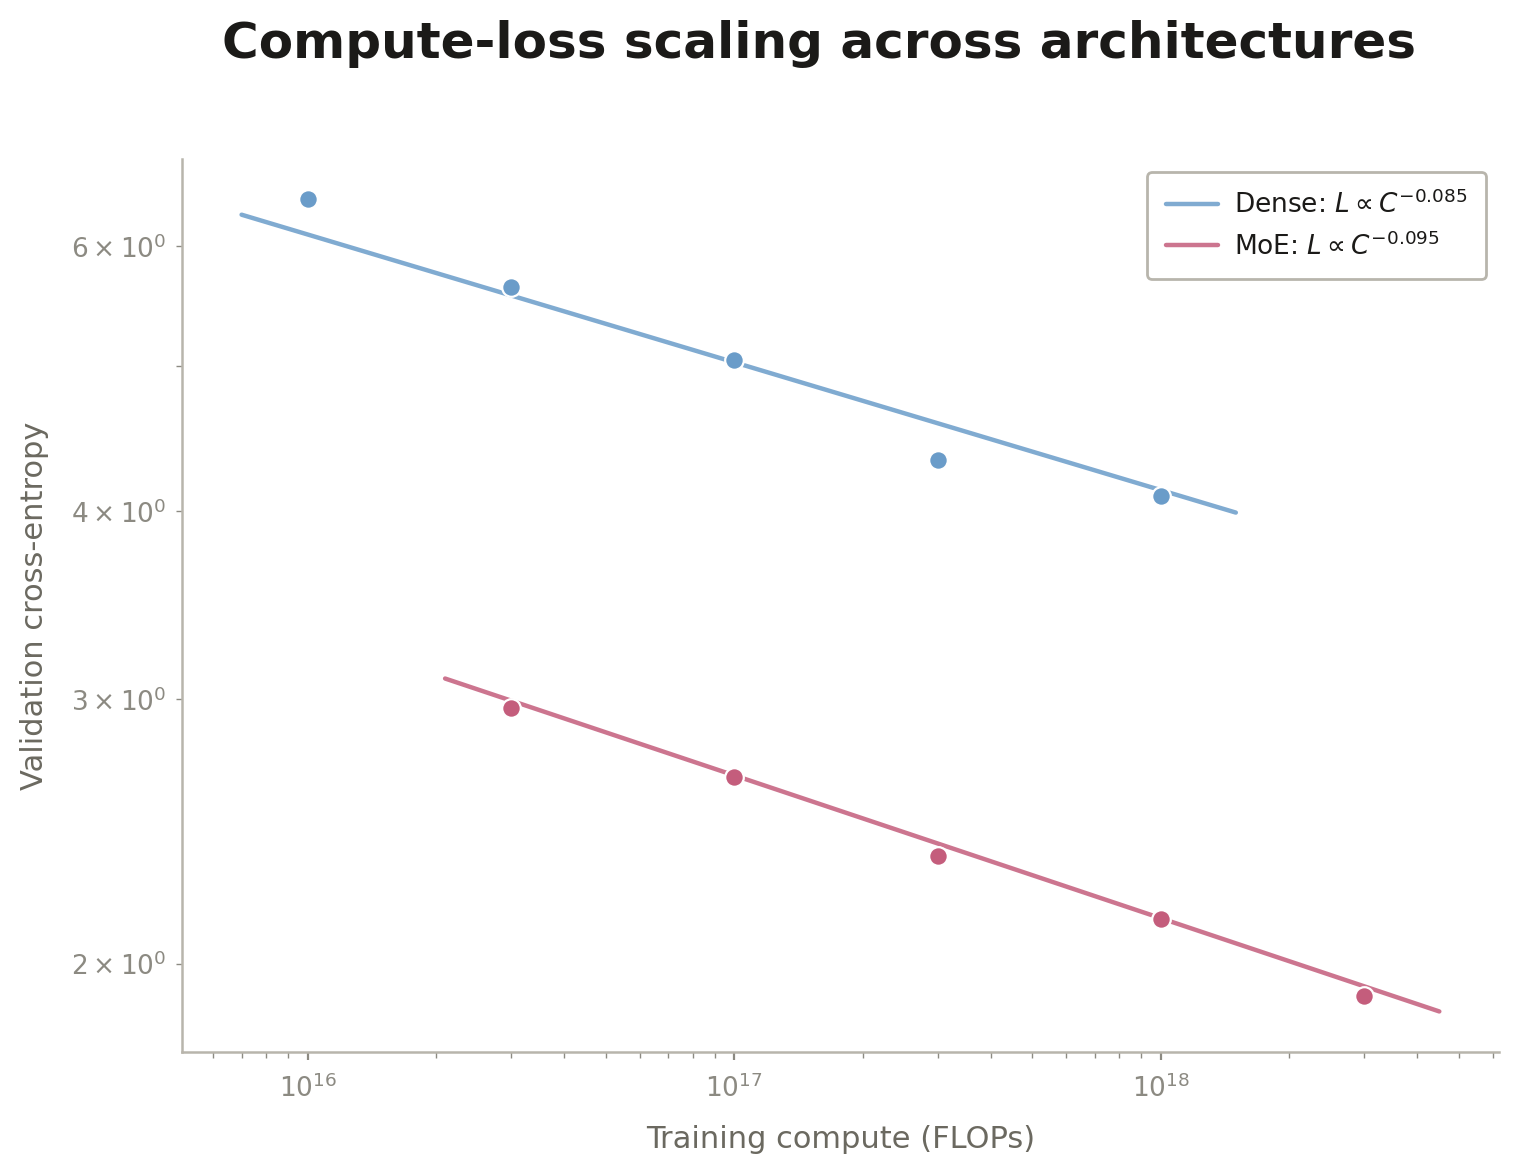
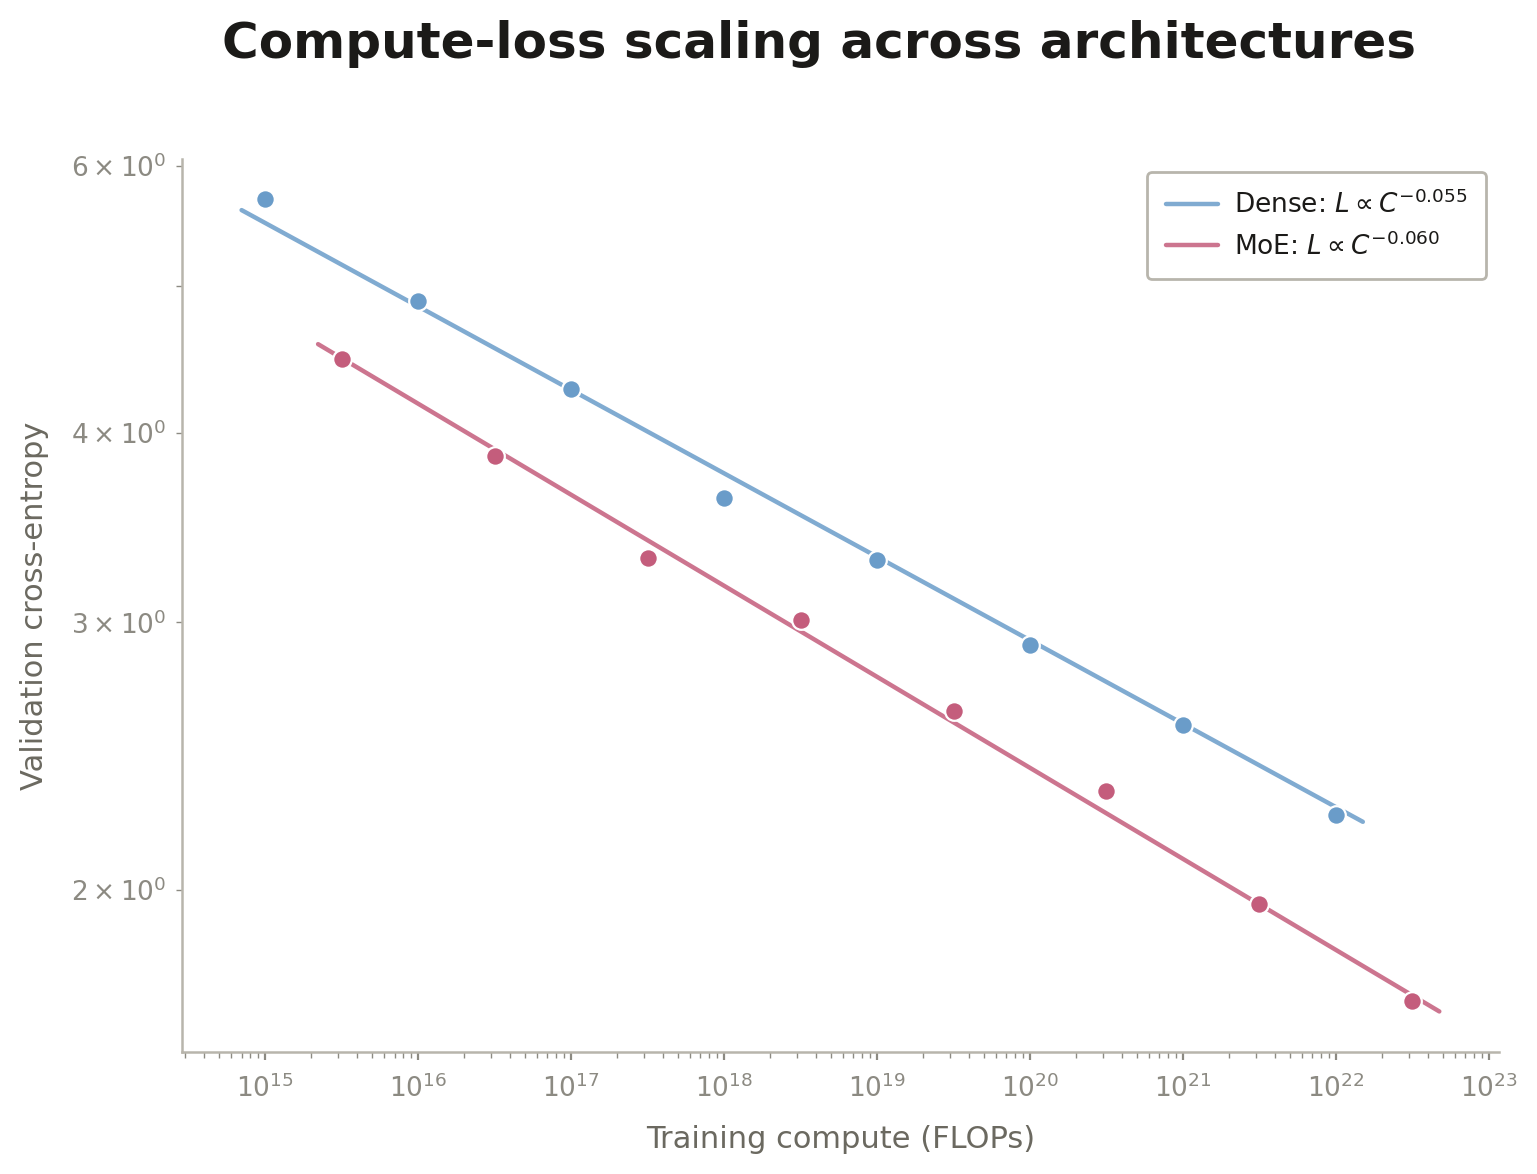
README: make scaling showcase realistic across the log axes
The previous scaling figure used too-small exponents over only ~2.5
decades of compute, so loss barely moved (4-6) and didn't exercise the
log-log axes. Widen the sweep to ~8 decades (1e15-1e23 FLOPs) and pin
C0 from a reference loss so cross-entropy descends from ~5.5 nats toward
the ~1.6-2 nat floor large models actually reach — the iconic
Kaplan/Chinchilla straight-line-on-log-log shape.

diff --git a/assets/generate_showcase.py b/assets/generate_showcase.py
@@ -140,23 +140,29 @@ def fig_grouped_bars() -> None:
 # --------------------------------------------------------------------------
 def fig_scaling() -> None:
     np.random.seed(3)
+    # Pure power law L = C0 * C^(-alpha), with C0 pinned by a reference loss
+    # at C_ref. Exponents (~0.05-0.06) and the ~8-decade compute sweep match
+    # the Kaplan/Chinchilla regime: loss descends from ~5 nats toward the
+    # ~1.6-2 nat floor that frontier-scale models reach.
+    C_ref = 1e15
     families = {
-        "Dense": {"alpha": 0.085, "C0": 1.4e2, "color": LINE_PALETTE["blue"],
-                  "compute": np.array([1e16, 3e16, 1e17, 3e17, 1e18])},
-        "MoE": {"alpha": 0.095, "C0": 1.1e2, "color": LINE_PALETTE["pink"],
-                "compute": np.array([3e16, 1e17, 3e17, 1e18, 3e18])},
+        "Dense": {"alpha": 0.055, "L_ref": 5.5, "color": LINE_PALETTE["blue"],
+                  "compute": np.logspace(15, 22, 8)},
+        "MoE":   {"alpha": 0.060, "L_ref": 4.8, "color": LINE_PALETTE["pink"],
+                  "compute": np.logspace(15.5, 22.5, 8)},
     }
 
     fig, ax = plt.subplots(figsize=(8.5, 5.8))
     for name, d in families.items():
         c = d["color"]
-        loss = d["C0"] * d["compute"] ** (-d["alpha"])
-        loss_obs = loss * np.exp(np.random.normal(0, 0.03, len(loss)))
+        C0 = d["L_ref"] * C_ref ** d["alpha"]
+        loss = C0 * d["compute"] ** (-d["alpha"])
+        loss_obs = loss * np.exp(np.random.normal(0, 0.02, len(loss)))
         ax.scatter(d["compute"], loss_obs, color=c, s=45, zorder=3,
                    edgecolor="white", linewidth=0.8)
         cf = np.logspace(np.log10(d["compute"].min() * 0.7),
                          np.log10(d["compute"].max() * 1.5), 100)
-        ax.plot(cf, d["C0"] * cf ** (-d["alpha"]), color=c, linewidth=1.6,
+        ax.plot(cf, C0 * cf ** (-d["alpha"]), color=c, linewidth=1.6,
                 alpha=0.85,
                 label=fr"{name}: $L \propto C^{{-{d['alpha']:.3f}}}$")
 
